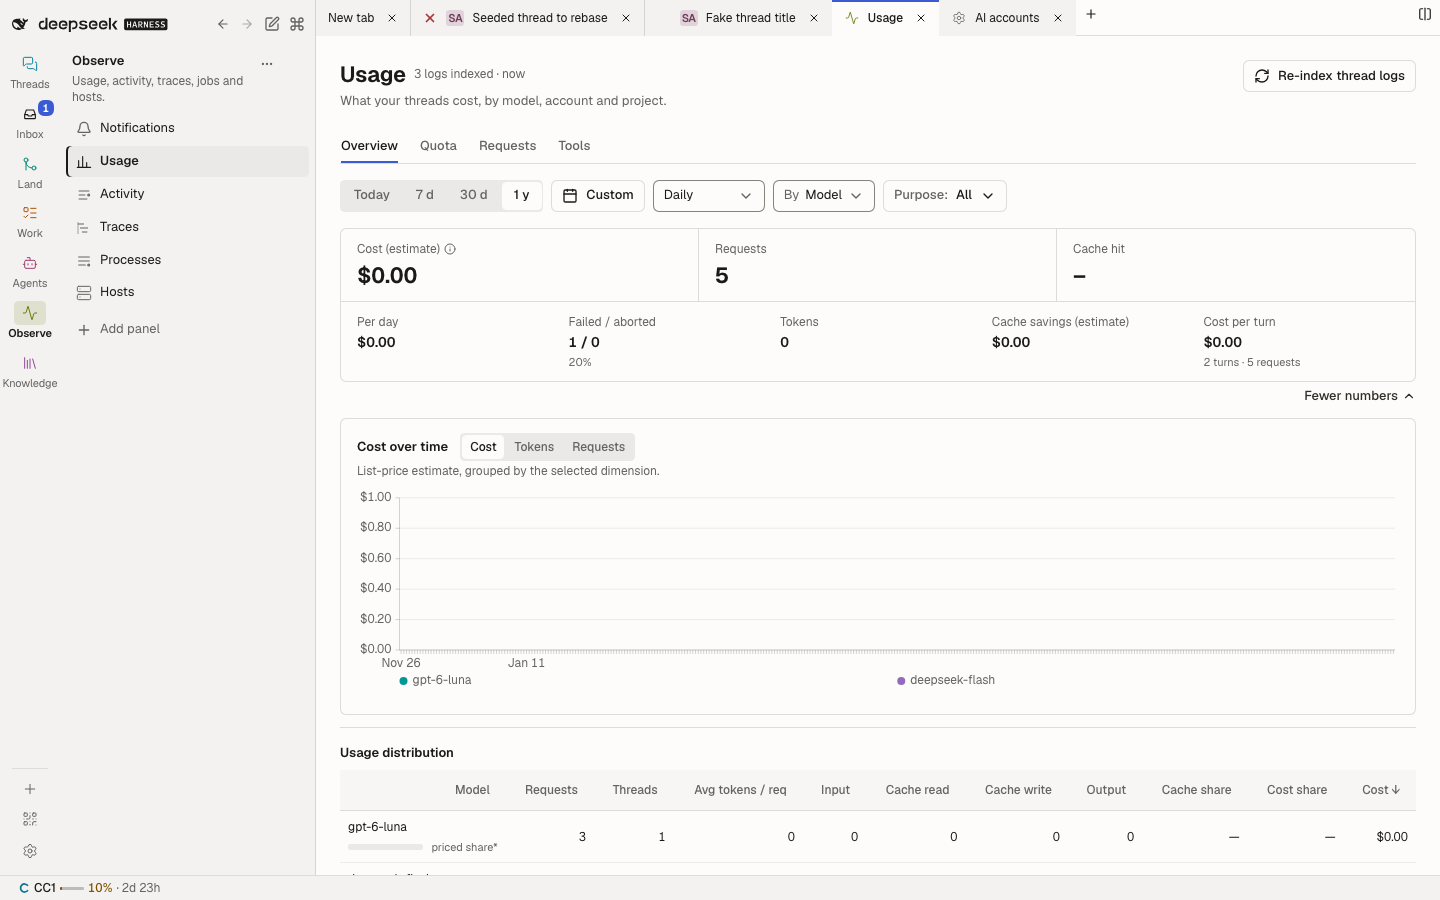
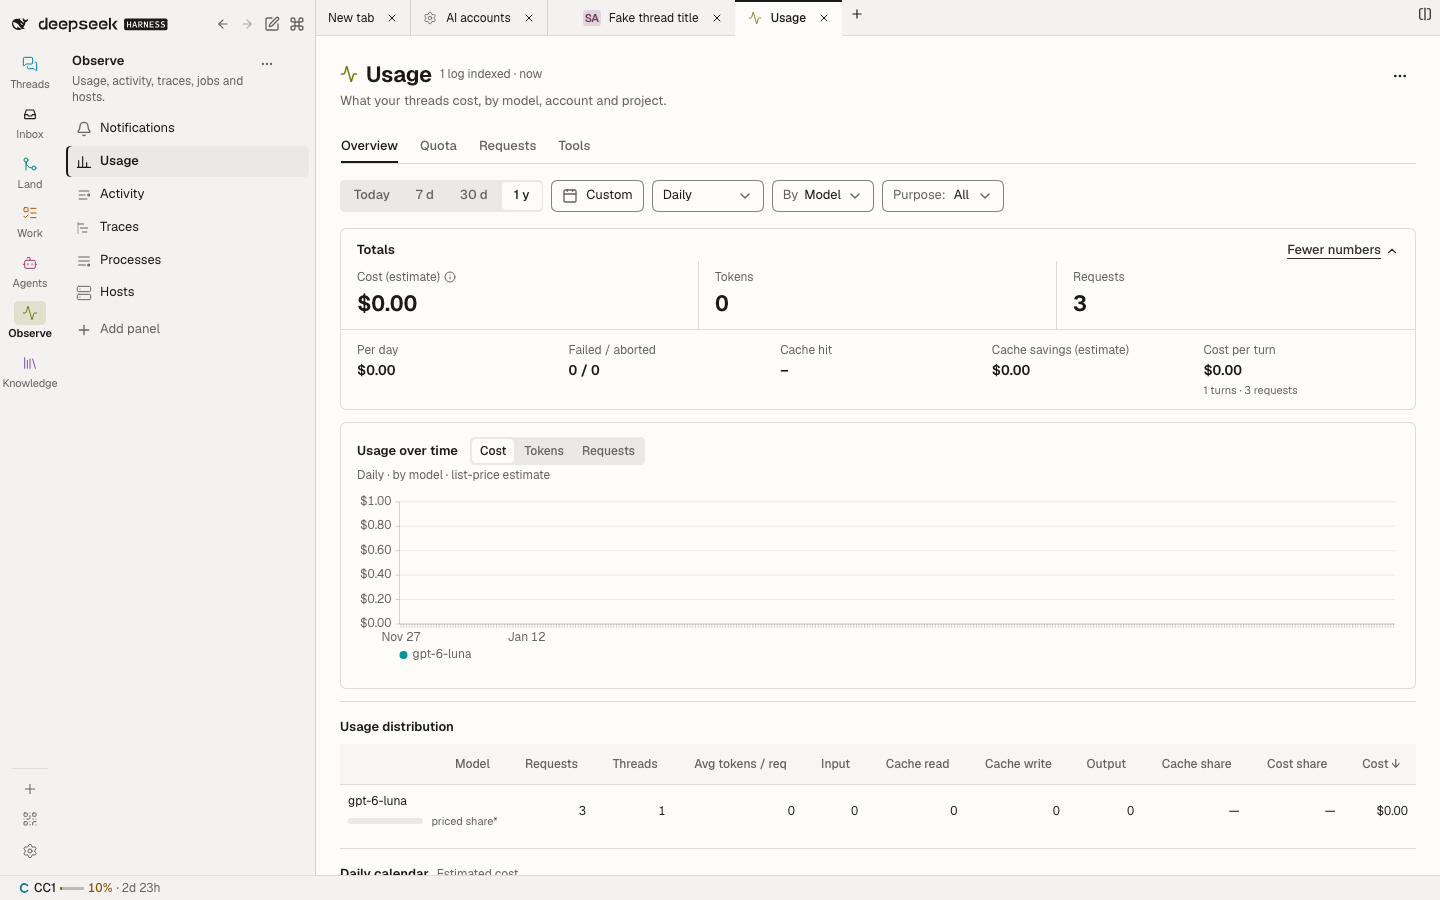
fix(usage): lead the totals with cost, tokens and requests under a header line
Tokens is the chart's default measure, so it belongs among the three lead numbers; the cache hit ratio is secondary and moves behind More numbers. The More numbers link sat inside the Cache hit cell; it now ends a small Totals header line above the three stats, like the headers of the cards below (council round 9, D1).

diff --git a/plugins/@dshfiles/usage/src/cost-summary.tsx b/plugins/@dshfiles/usage/src/cost-summary.tsx
@@ -26,7 +26,7 @@ const Tile = (props: { readonly label: ReactNode; readonly value: string; readon
  * baseline, never as a sub-line only some of the three carry (council round 8, D1).
  */
 const LeadTile = (props: { readonly label: ReactNode; readonly value: string; readonly change?: ReactNode }): JSX.Element => (
-  <div className="dshx:flex dshx:min-w-0 dshx:flex-col dshx:gap-1 dshx:px-4 dshx:py-3 dshx:@max-pane-narrow:px-3">
+  <div className="dshx:flex dshx:min-w-0 dshx:flex-col dshx:gap-1 dshx:px-4 dshx:pt-2 dshx:pb-3 dshx:@max-pane-narrow:px-3">
     <span className="dshx:flex dshx:items-center dshx:gap-1 dshx:text-xs dshx:text-muted-foreground">{props.label}</span>
     <span className="dshx:flex dshx:min-w-0 dshx:items-baseline dshx:gap-2" data-kpi-line>
       <span className="dshx:min-w-0 dshx:truncate dshx:text-title dshx:font-title dshx:tabular-nums" data-kpi-value>
@@ -54,9 +54,10 @@ const Change = (props: { readonly current: number; readonly previous: number; re
 const LEAD_CHANGE = 'dshx:shrink-0 dshx:whitespace-nowrap dshx:text-xs dshx:font-medium'
 
 /**
- * The Overview tab's numbers: cost, requests and cache hit lead, in one hairline card split by two dividers; the other
- * five open under a hairline inside the same card. "More numbers" is a 13 px text link in the card's top-right corner, so
- * the card needs no footer row (council round 6, D1; round 7, D3; round 8, D1). The estimate's caveat (list price,
+ * The Overview tab's numbers: cost, tokens and requests lead (tokens is the chart's default measure), in one hairline
+ * card split by two dividers; the other five, cache hit among them, open under a hairline inside the same card. The card
+ * has a small header line like the cards below it, "Totals" with "More numbers" at its end, so the link sits in no stat
+ * cell and needs no footer row (council round 6, D1; round 7, D3; round 9, D1). The estimate's caveat (list price,
  * catalog age) is a tooltip on the cost label.
  */
 export const CostSummary = (props: {
@@ -71,16 +72,27 @@ export const CostSummary = (props: {
   const { summary } = props
   const tokens = summary.input + summary.cacheRead + summary.cacheWrite + summary.output
   const cacheHit = UsageFormattingModel.cacheHitRatio(summary)
-  const change = (current: number, previous: number): JSX.Element | undefined =>
-    UsageFormattingModel.changeRatio(current, previous) === null ? undefined : <Change current={current} previous={previous} />
   const leadChange = (current: number, previous: number): JSX.Element | undefined =>
     UsageFormattingModel.changeRatio(current, previous) === null ? undefined : <Change className={LEAD_CHANGE} current={current} previous={previous} />
   return (
     <div className="dshx:flex dshx:min-w-0 dshx:flex-col dshx:gap-1">
       <div
         data-usage-stats
-        className="dshx:@container dshx:relative dshx:flex dshx:min-w-0 dshx:flex-col dshx:rounded-lg dshx:border dshx:border-border dshx:bg-card"
+        className="dshx:@container dshx:flex dshx:min-w-0 dshx:flex-col dshx:rounded-lg dshx:border dshx:border-border dshx:bg-card"
       >
+        <div
+          className="dshx:flex dshx:min-w-0 dshx:items-center dshx:justify-between dshx:gap-3 dshx:px-4 dshx:pt-3 dshx:@max-pane-narrow:px-3"
+          data-usage-stats-header
+        >
+          <span className="dshx:text-sm dshx:font-semibold dshx:text-foreground">Totals</span>
+          <Button aria-controls={moreId} aria-expanded={open} className={STATS_MORE_LINK} onClick={() => setOpen(!open)} type="button" variant="link">
+            {open ? 'Fewer numbers' : 'More numbers'}
+            <ChevronDownIcon
+              aria-hidden
+              className={cn('dshx:size-3.5 dshx:transition-transform dshx:duration-(--dshx-duration-fade) dshx:ease-enter', open && 'dshx:rotate-180')}
+            />
+          </Button>
+        </div>
         <div className="dshx:grid dshx:min-w-0 dshx:grid-cols-3 dshx:divide-x dshx:divide-border" data-usage-stats-row>
           <LeadTile
             label={
@@ -101,17 +113,9 @@ export const CostSummary = (props: {
             value={UsageFormattingModel.formatCost(summary.cost)}
             change={leadChange(summary.cost, summary.previous.cost)}
           />
+          <LeadTile label="Tokens" value={UsageFormattingModel.formatCount(tokens)} change={leadChange(tokens, summary.previous.tokens)} />
           <LeadTile label="Requests" value={summary.requests.toLocaleString()} change={leadChange(summary.requests, summary.previous.requests)} />
-          <LeadTile label="Cache hit" value={UsageFormattingModel.formatPercent(cacheHit)} />
         </div>
-        {/* A text link in the card's top-right corner, on the cells' label line (council round 8, D1). */}
-        <Button aria-controls={moreId} aria-expanded={open} className={STATS_MORE_LINK} onClick={() => setOpen(!open)} type="button" variant="link">
-          <span className="dshx:@max-pane-narrow:sr-only">{open ? 'Fewer numbers' : 'More numbers'}</span>
-          <ChevronDownIcon
-            aria-hidden
-            className={cn('dshx:size-3.5 dshx:transition-transform dshx:duration-(--dshx-duration-fade) dshx:ease-enter', open && 'dshx:rotate-180')}
-          />
-        </Button>
         {open ? (
           <div
             className="dshx:grid dshx:grid-cols-2 dshx:gap-x-4 dshx:gap-y-3 dshx:border-t dshx:border-border dshx:px-4 dshx:py-3 dshx:@min-[42rem]:grid-cols-3 dshx:@min-[64rem]:grid-cols-5 dshx:@max-pane-narrow:px-3"
@@ -127,7 +131,7 @@ export const CostSummary = (props: {
               value={`${summary.failed.toLocaleString()} / ${summary.aborted.toLocaleString()}`}
               detail={summary.failed === 0 ? undefined : UsageFormattingModel.formatPercent(summary.failed / summary.requests)}
             />
-            <Tile label="Tokens" value={UsageFormattingModel.formatCount(tokens)} detail={change(tokens, summary.previous.tokens)} />
+            <Tile label="Cache hit" value={UsageFormattingModel.formatPercent(cacheHit)} />
             <Tile
               label="Cache savings (estimate)"
               value={UsageFormattingModel.formatCost(summary.cacheSavings)}
@@ -150,8 +154,8 @@ export const CostSummary = (props: {
 }
 
 /**
- * "More numbers": a 13 px ink link, 20 px tall (44 px under a coarse pointer), pinned to the card's top-right corner and
- * centred on the cells' 12 px label line; a narrow pane keeps only its chevron.
+ * "More numbers": a 13 px ink link, 20 px tall, at the end of the card's header line. Under a coarse pointer it takes a
+ * 44 px target whose extra height overhangs the line (negative block margin), so the header does not grow.
  */
 export const STATS_MORE_LINK =
-  'dshx:absolute dshx:top-2.5 dshx:right-4 dshx:h-5 dshx:gap-1 dshx:px-0 dshx:text-sm dshx:has-[>svg]:px-0 dshx:pointer-coarse:top-0 dshx:pointer-coarse:h-11 dshx:pointer-coarse:min-w-11 dshx:@max-pane-narrow:right-3'
+  'dshx:h-5 dshx:gap-1 dshx:px-0 dshx:text-sm dshx:has-[>svg]:px-0 dshx:pointer-coarse:h-11 dshx:pointer-coarse:-my-3 dshx:pointer-coarse:min-w-11'

diff --git a/plugins/@dshfiles/usage/src/cost-summary.test.tsx b/plugins/@dshfiles/usage/src/cost-summary.test.tsx
@@ -46,10 +46,16 @@ describe('Usage › Cost with nothing to say', () => {
 
 describe('Usage › Cost numbers', () => {
   const markup = renderToStaticMarkup(<CostSummary days={7} pricingNote="List-price estimate from the models.dev catalog." summary={summary()} />)
-  it('leads with three numbers and folds the rest', () => {
-    for (const label of ['Cost (estimate)', 'Requests', 'Cache hit']) expect(markup).toContain(`>${label}<`)
-    for (const label of ['Per day', 'Failed / aborted', 'Cache savings (estimate)', 'Cost per turn']) expect(markup).not.toContain(label)
-    expect(markup).toMatch(/<button[^>]*aria-expanded="false"[^>]*>(?:<span[^>]*>)?More numbers(?:(?!<\/button>).)*<\/button>/u)
+  it('leads with cost, tokens and requests, in that order, and folds the rest (council round 9, D1)', () => {
+    const row = markup.slice(markup.indexOf('data-usage-stats-row'))
+    const order = ['Cost (estimate)', 'Tokens', 'Requests'].map(label => row.indexOf(`>${label}<`))
+    for (const index of order) expect(index).toBeGreaterThan(-1)
+    expect([...order].sort((left, right) => left - right)).toEqual(order)
+    // Tokens matches the chart's default measure; the cache hit ratio is a secondary number.
+    for (const label of ['Cache hit', 'Per day', 'Failed / aborted', 'Cache savings (estimate)', 'Cost per turn']) expect(markup).not.toContain(label)
+    expect(markup).toMatch(/<button[^>]*aria-expanded="false"[^>]*>More numbers(?:(?!<\/button>).)*<\/button>/u)
+    const open = renderToStaticMarkup(<CostSummary days={7} pricingNote="" summary={summary()} defaultOpen />)
+    expect(open).toContain('>Cache hit<')
   })
   it('draws each lead number in neutral ink at 22/650 tabular figures, with no series dot (council round 5, D1)', () => {
     const values = [...markup.matchAll(/<span class="([^"]*)" data-kpi-value="true">/gu)].map(match => match[1])
@@ -59,25 +65,26 @@ describe('Usage › Cost numbers', () => {
     expect(markup).not.toContain('data-kpi-dot')
     expect(markup).not.toMatch(/style="background:/u)
   })
-  it('puts "More numbers" in the stats card\'s top-right corner as a 13 px text link, with no footer (council round 8, D1)', () => {
-    const button = /<button([^>]*)>(?:<span[^>]*>)?More numbers((?:(?!<\/button>).)*)<\/button>/u.exec(markup)
+  it('puts "More numbers" on a small header line above the three stats, as a 13 px text link (council round 9, D1)', () => {
+    const button = /<button([^>]*)>More numbers((?:(?!<\/button>).)*)<\/button>/u.exec(markup)
     expect(button?.[1]).toContain('aria-expanded="false"')
     expect(button?.[1]).toContain('dshx:text-sm')
     expect(button?.[1]).toContain('dshx:hover:underline')
-    // Pinned to the card's corner on the label line, not a full-width footer row under a hairline.
-    expect(button?.[1]).toContain('dshx:absolute')
-    expect(button?.[1]).toContain('dshx:top-2.5')
-    expect(button?.[1]).toContain('dshx:right-4')
     expect(button?.[2]).toMatch(/<svg[^>]*aria-hidden="true"[^>]*>.*<\/svg>$/u)
+    // On its own line before the stats row: not pinned inside a stat cell, not a full-width footer under the row.
+    expect(button?.[1]).not.toContain('dshx:absolute')
+    const header = markup.indexOf('data-usage-stats-header')
+    expect(header).toBeGreaterThan(-1)
+    expect(markup.indexOf('More numbers')).toBeGreaterThan(header)
+    expect(markup.indexOf('More numbers')).toBeLessThan(markup.indexOf('data-usage-stats-row'))
     expect(markup).not.toContain('data-usage-stats-more')
-    const card = /<div data-usage-stats="true" class="([^"]*)">/u.exec(markup)
-    expect(card?.[1]).toContain('dshx:relative')
-    // A narrow pane keeps the chevron and the accessible name; the words give way before they collide with "Cache hit".
-    expect(markup).toMatch(/<span class="dshx:@max-pane-narrow:sr-only">More numbers<\/span>/u)
+    // A 44 px target under a coarse pointer that does not grow the header line.
+    expect(button?.[1]).toContain('dshx:pointer-coarse:h-11')
+    expect(button?.[1]).toContain('dshx:pointer-coarse:-my-3')
   })
   it('gives the three lead numbers the same structure: label and value, no sub-line under one of them (council round 8, D1)', () => {
-    // The three cells: from the row up to the More numbers link (the only control with aria-expanded).
-    const row = markup.slice(markup.indexOf('data-usage-stats-row'), markup.indexOf('aria-expanded'))
+    // The three cells: the stats row, which ends before the folded numbers.
+    const row = markup.slice(markup.indexOf('data-usage-stats-row'))
     expect(row).not.toContain('dshx:text-2xs')
     expect(row).not.toContain('cached prompt tokens')
     // The cached-token count lives with the savings it earned, behind More numbers.
@@ -86,11 +93,11 @@ describe('Usage › Cost numbers', () => {
   })
   it('shows a change against the previous period beside its value, not as a sub-line', () => {
     const compared = renderToStaticMarkup(
-      <CostSummary days={7} pricingNote="" summary={summary({ previous: { cost: 0.01, requests: 1, tokens: 0, averageDurationMs: null, cacheSavings: 0, turns: 0 } })} />,
+      <CostSummary days={7} pricingNote="" summary={summary({ previous: { cost: 0.01, requests: 1, tokens: 100, averageDurationMs: null, cacheSavings: 0, turns: 0 } })} />,
     )
     const values = [...compared.matchAll(/<span class="([^"]*)" data-kpi-line="true">(.*?)<\/span><\/span><\/div>/gu)]
-    expect(values.length).toBeGreaterThanOrEqual(2)
-    for (const [, className, inner] of values.slice(0, 2)) {
+    expect(values).toHaveLength(3)
+    for (const [, className, inner] of values) {
       expect(className).toContain('dshx:items-baseline')
       expect(inner).toContain('▲')
       expect(inner).toContain('vs previous period')
@@ -108,7 +115,7 @@ describe('Usage › Overview numbers (council round 5, D1)', () => {
   it('sets the three lead numbers in one hairline card, split by two dividers', () => {
     const card = /<div data-usage-stats="true" class="([^"]*)">/u.exec(markup)
     expect(card?.[1]).toContain('dshx:rounded-lg dshx:border dshx:border-border')
-    const row = /<div class="([^"]*)" data-usage-stats-row="true">(.*?)<button[^>]*aria-expanded/u.exec(markup)
+    const row = /<div class="([^"]*)" data-usage-stats-row="true">(.*)$/u.exec(markup)
     expect(row?.[1]).toContain('dshx:divide-x dshx:divide-border')
     expect(row?.[1]).toContain('dshx:grid-cols-3')
     // Three cells: two dividers between them, none after the last.
